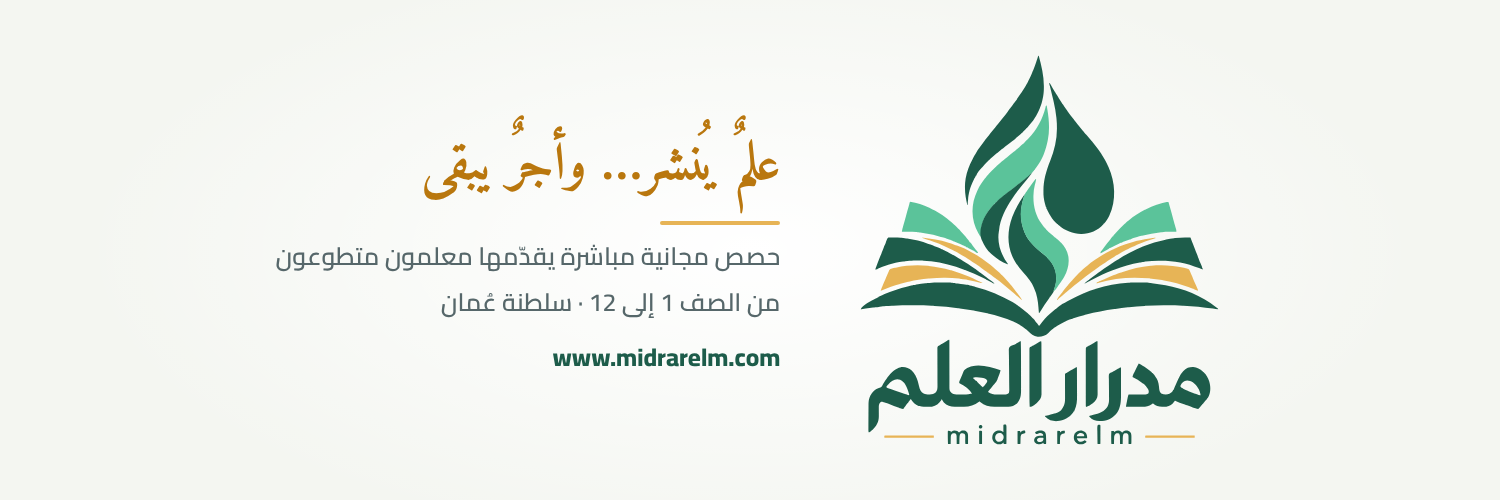
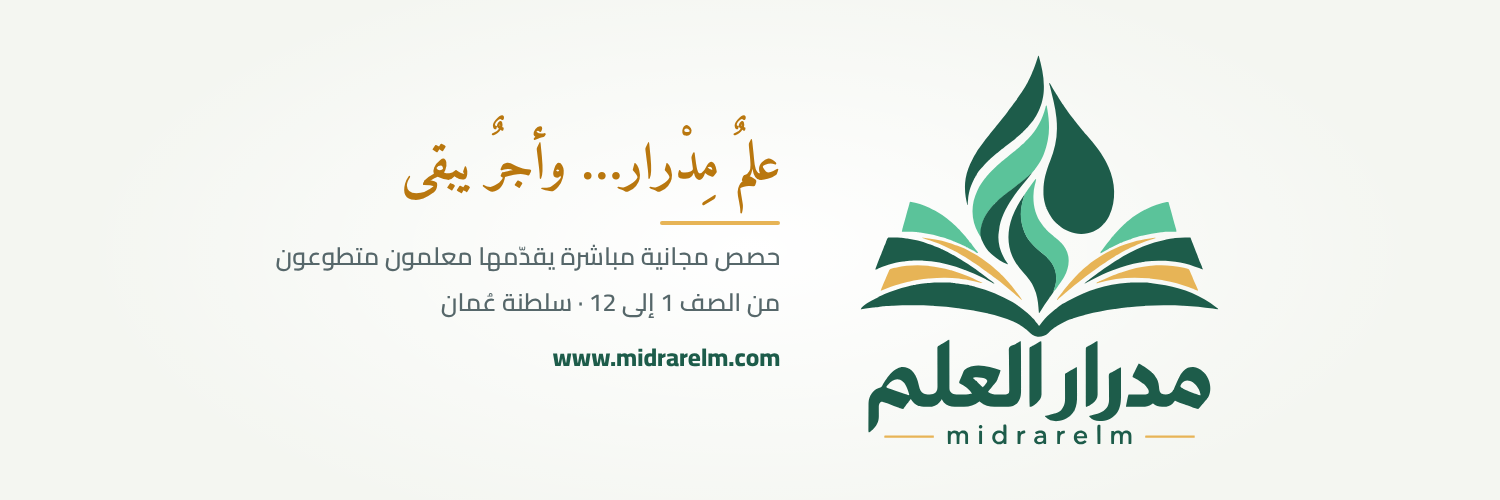
Change the slogan to «علمٌ مِدْرار… وأجرٌ يبقى»
Update the site, meta tags and marketing images; replace the old
edu.kamirtyai.com address in the hadith image.

Claude-Session: https://claude.ai/code/session_014YGcUyJyPRtAXsCSz1nsvG

Changed region(s): [[0.2453, 0.24, 0.4907, 0.42], [0.46, 0.24, 0.4907, 0.27]]

diff --git a/ataa-platform/index.html b/ataa-platform/index.html
@@ -4,10 +4,10 @@
   <meta charset="utf-8">
   <meta name="viewport" content="width=device-width, initial-scale=1, viewport-fit=cover">
   <title>منصة مِدْرار العلم</title>
-  <meta name="description" content="علمٌ يُنشر… وأجرٌ يبقى. حصص مجانية مباشرة يقدّمها معلمون متطوعون. اختر صفك وادخل الحصة بدون تسجيل.">
+  <meta name="description" content="علمٌ مِدْرار… وأجرٌ يبقى. حصص مجانية مباشرة يقدّمها معلمون متطوعون. اختر صفك وادخل الحصة بدون تسجيل.">
   <meta name="theme-color" content="#1D5C4A">
   <meta property="og:title" content="منصة مِدْرار العلم">
-  <meta property="og:description" content="علمٌ يُنشر… وأجرٌ يبقى. حصص مجانية مباشرة يقدّمها معلمون متطوعون.">
+  <meta property="og:description" content="علمٌ مِدْرار… وأجرٌ يبقى. حصص مجانية مباشرة يقدّمها معلمون متطوعون.">
   <meta http-equiv="Content-Security-Policy" content="default-src 'self'; script-src 'self'; style-src 'self' 'unsafe-inline' https://fonts.googleapis.com; font-src 'self' https://fonts.gstatic.com; img-src 'self' data: https://i.ytimg.com https://*.googleusercontent.com; frame-src https://www.youtube-nocookie.com https://www.youtube.com; connect-src 'self' https://*.supabase.co wss://*.supabase.co; base-uri 'self'; form-action 'self'">
   <meta name="referrer" content="strict-origin-when-cross-origin">
   <link rel="icon" href="favicon.svg" type="image/svg+xml">

diff --git a/ataa-platform/marketing/teaser.html b/ataa-platform/marketing/teaser.html
@@ -42,7 +42,7 @@ body{width:1920px;height:1080px;overflow:hidden;font-family:Cairo,sans-serif;bac
   <div class="brand"><div class="mark" style="width:84px;height:84px;background:#F4F6F1;border-radius:18px;box-sizing:border-box;padding:10px;display:grid;place-items:center;flex:none"><img src="midrar-mark.svg" alt="" style="width:100%;height:auto;display:block"></div>منصة مِدْرار العلم</div>
   <div class="soon">قريباً</div>
   <div class="tag">حصص مجانية مباشرة<br>يقدّمها معلمون متطوعون</div>
-  <div class="sub"><b style="color:#E7B456">علمٌ يُنشر… وأجرٌ يبقى.</b><br>اختر صفّك، واختر معلمك، وادخل الحصة بدون حساب. وإن فاتتك، فالتسجيل بانتظارك.</div>
+  <div class="sub"><b style="color:#E7B456">علمٌ مِدْرار… وأجرٌ يبقى.</b><br>اختر صفّك، واختر معلمك، وادخل الحصة بدون حساب. وإن فاتتك، فالتسجيل بانتظارك.</div>
   <div class="pills"><span class="pill">من الصف 1 إلى 12</span><span class="pill">مجاناً بالكامل</span><span class="pill">بث مباشر وتسجيلات</span></div>
  </div>
  <div class="board">

diff --git a/ataa-platform/marketing/hadith.html b/ataa-platform/marketing/hadith.html
@@ -19,6 +19,6 @@ background-image:radial-gradient(700px 500px at 50% 35%,rgba(91,195,154,.18),tra
 <div class="say">قال رسول الله ﷺ</div>
 <div class="q">«إذا مات ابنُ آدمَ انقطع عملُه<br>إلا من ثلاث: صدقةٍ جارية،<br>أو <b>علمٍ يُنتفَعُ به</b>،<br>أو ولدٍ صالحٍ يدعو له»</div>
 <div class="src">رواه مسلم</div>
-<div class="say" style="color:#5BC39A;font-weight:700">علمٌ يُنشر… وأجرٌ يبقى</div>
-<div class="brand">منصة مِدْرار العلم <span>· عطاءٌ مدرار لا ينقطع · edu.kamirtyai.com</span></div>
+<div class="say" style="color:#5BC39A;font-weight:700">علمٌ مِدْرار… وأجرٌ يبقى</div>
+<div class="brand">منصة مِدْرار العلم <span>· www.midrarelm.com</span></div>
 </div></div></body></html>

diff --git a/ataa-platform/marketing/brand.html b/ataa-platform/marketing/brand.html
@@ -23,7 +23,7 @@ else{const [w,h,k]=mode==='youtube'?[2560,1440,1]:[1500,500,0.62];
  r.innerHTML=`<div class="bn" style="width:${w}px;height:${h}px">
   <img src="midrar-logo-official.svg" alt="" style="height:${mode==='youtube'?560:400}px">
   <div class="txt" style="font-size:${40*k}px">
-   <div class="slogan" style="font-size:${84*k}px">علمٌ يُنشر… وأجرٌ يبقى</div><div class="line"></div>
+   <div class="slogan" style="font-size:${84*k}px">علمٌ مِدْرار… وأجرٌ يبقى</div><div class="line"></div>
    <div class="desc">حصص مجانية مباشرة يقدّمها معلمون متطوعون<br>من الصف 1 إلى 12 · سلطنة عُمان</div>
    <div class="url">www.midrarelm.com</div></div></div>`;}
 </script></body></html>

diff --git a/ataa-platform/assets/app.js b/ataa-platform/assets/app.js
@@ -305,7 +305,7 @@
           <figcaption>قال رسول الله ﷺ</figcaption>
           <blockquote>«إذا مات ابنُ آدمَ انقطع عملُه إلا من ثلاث: صدقةٍ جارية، أو <mark>علمٍ يُنتفَعُ به</mark>، أو ولدٍ صالحٍ يدعو له»</blockquote>
           <figcaption>رواه مسلم</figcaption>
-          <p class="hadith-note">عطاءٌ مِدْرار لا ينقطع</p>
+          <p class="hadith-note">كل حصة تشرحها هنا… أثرٌ لا ينقطع</p>
           <a class="btn btn-primary btn-sm" href="#/dashboard">اجعل علمك صدقة جارية</a>
         </figure>
       </section>

diff --git a/ataa-platform/assets/config.js b/ataa-platform/assets/config.js
@@ -5,7 +5,7 @@ window.APP_CONFIG = {
   // اسم المنصة ووصفها القصير
   SITE_NAME: 'منصة مِدْرار العلم',
   SITE_TAGLINE: 'حصص مجانية مباشرة يقدّمها معلمون متطوعون',
-  SITE_MOTTO: 'علمٌ يُنشر… وأجرٌ يبقى',
+  SITE_MOTTO: 'علمٌ مِدْرار… وأجرٌ يبقى',
 
   // من Supabase → Project Settings → API (اتركهما فارغين لتشغيل الوضع التجريبي)
   SUPABASE_URL: 'https://thrfesoahytbdyycoivm.supabase.co',
